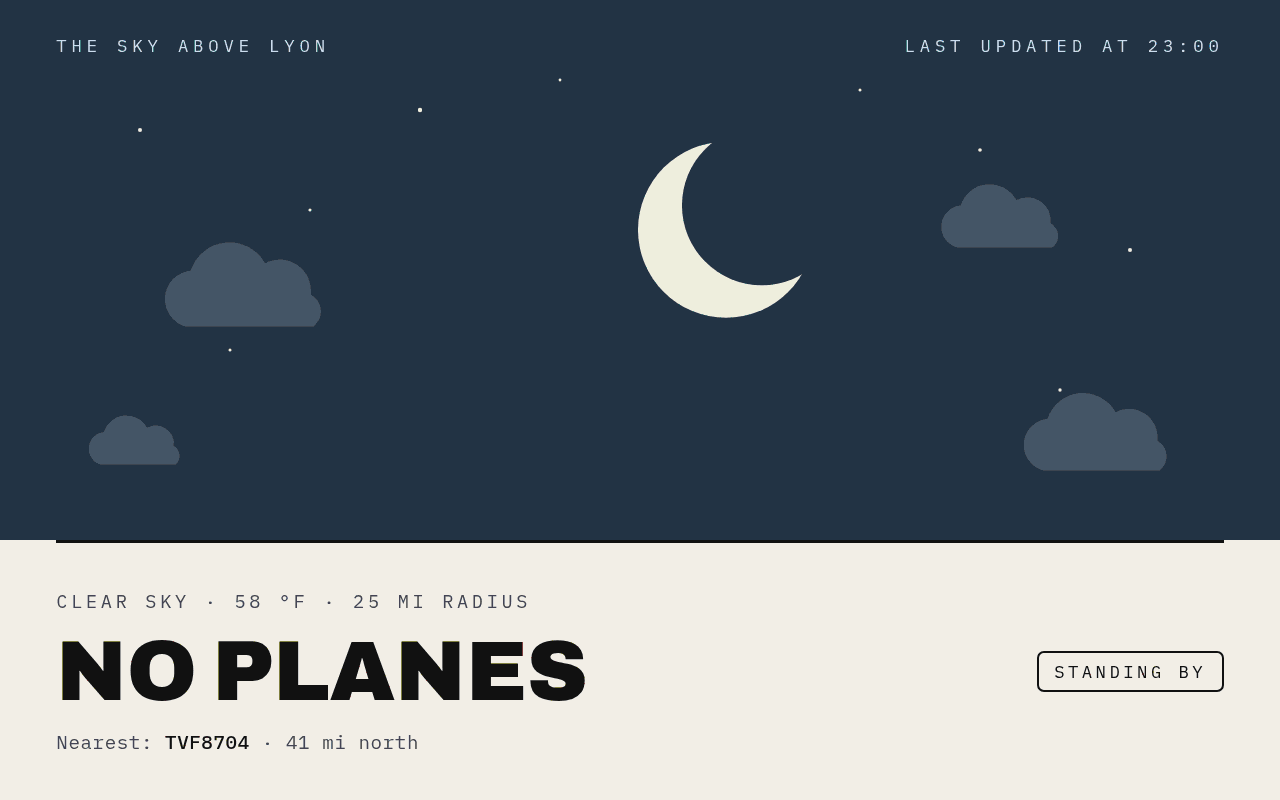
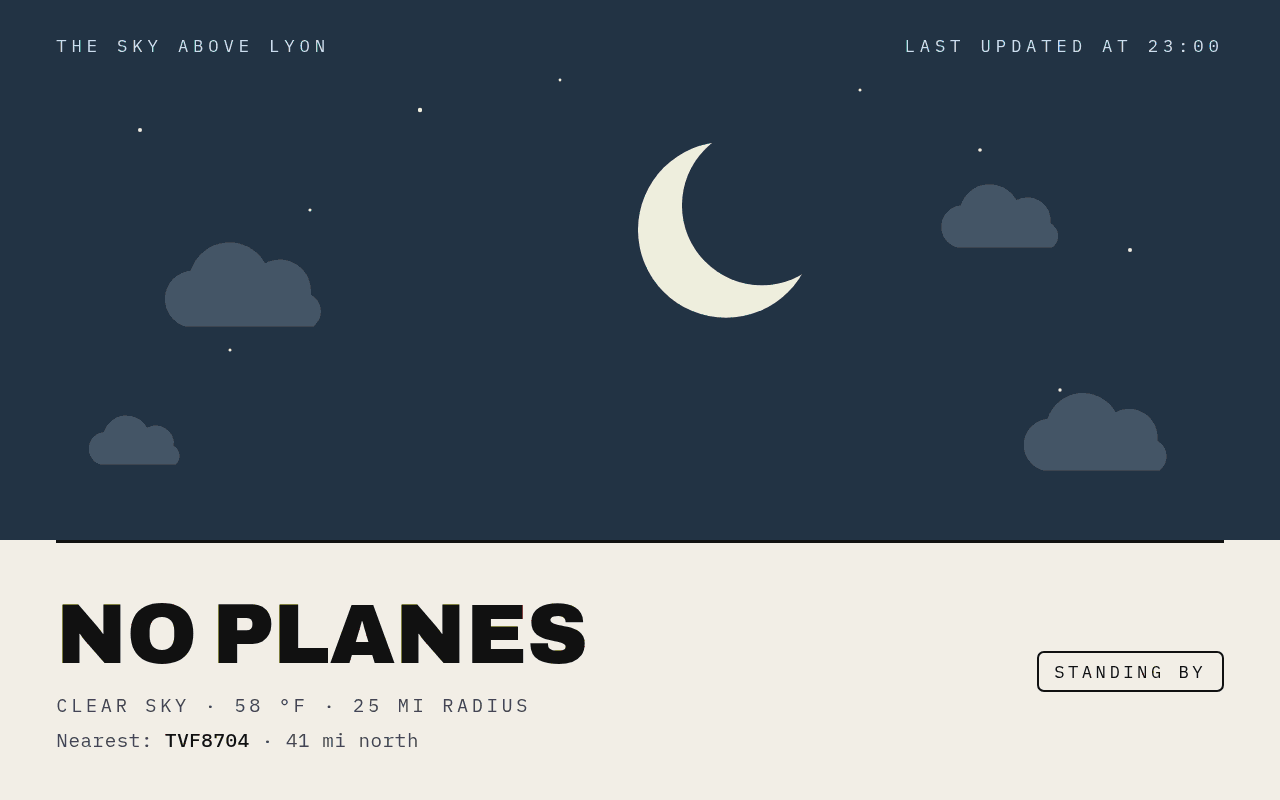
Villes en titre, compagnie dessous ; crédit design dans le README
- Le bloc texte affiche d'abord l'itinéraire, puis la compagnie, le vol
  et l'appareil, puis les données de vol (tous formats et états)
- Numéro de vol : un code IATA sans lettre (« 452 » renvoyé par adsbdb)
  n'est plus découpé en « 45002 » ; repli sur l'indicatif OACI
- La liste intégrée des compagnies passe avant adsbdb (OCN = Discover
  Airlines, pas « O Air »), et s'enrichit de quelques compagnies
- README : mention du design inspiré d'AvioFrame (FR/EN), captures à jour

Changed region(s): [[0.0312, 0.75, 0.4688, 0.9375], [0.2188, 0.9062, 0.3125, 0.9375]]

diff --git a/README.md b/README.md
@@ -10,6 +10,8 @@
 
 *Look up: FlightPoster tells you which plane is flying over your home.*
 
+> Design heavily inspired by AvioFrame's superb work, rebuilt from scratch for the TRMNL ecosystem.
+
 A TRMNL plugin that shows the plane flying over your home, with the real sky behind it: sun, dusk or night, and the current weather (clouds, rain, snow, fog, thunderstorms). It is the first plugin of the Poster suite, with [WeatherPoster](https://github.com/BartoX360/WeatherPoster), [GamePoster](https://github.com/BartoX360/GamePoster), [MoviePoster](https://github.com/BartoX360/MoviePoster), [ShowPoster](https://github.com/BartoX360/ShowPoster) and [BookPoster](https://github.com/BartoX360/BookPoster).
 
 No server to install. Everything comes from free, community-run data sources:
@@ -77,6 +79,8 @@ The `recipe/src/` folder follows the [trmnlp](https://github.com/usetrmnl/trmnlp
 ## Français
 
 *Levez les yeux : FlightPoster vous dit quel avion survole votre maison.*
+
+> Design grandement inspiré par le superbe travail d'AvioFrame, recodé de zéro pour l'écosystème TRMNL.
 
 Un plugin TRMNL qui affiche l'avion qui passe au-dessus de chez vous, avec le vrai ciel derrière : soleil, crépuscule ou nuit, et la météo du moment (nuages, pluie, neige, brouillard, orage). C'est le premier plugin de la suite Poster, avec [WeatherPoster](https://github.com/BartoX360/WeatherPoster), [GamePoster](https://github.com/BartoX360/GamePoster), [MoviePoster](https://github.com/BartoX360/MoviePoster), [ShowPoster](https://github.com/BartoX360/ShowPoster) et [BookPoster](https://github.com/BartoX360/BookPoster).
 
